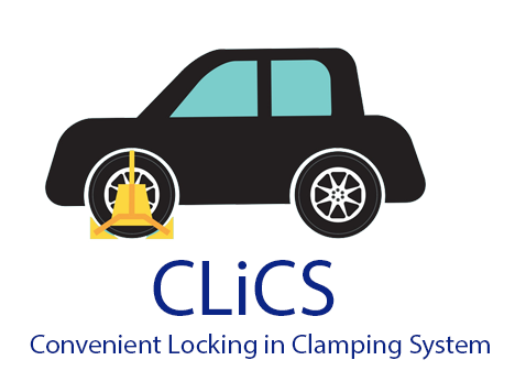
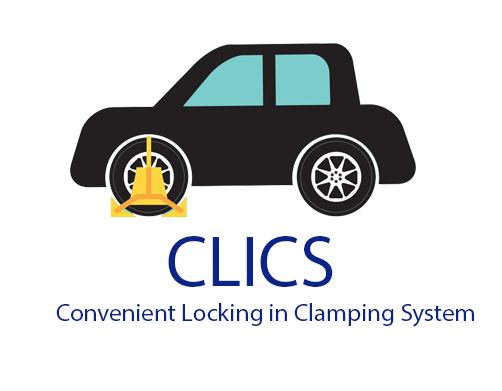
Add files via upload

Changed region(s): [[0.0598, 0.0921, 0.9562, 0.9207]]

diff --git a/index.html b/index.html
@@ -3,7 +3,7 @@
 <html>
 		<head>
 			<link rel='shortcut icon' href='favicon png.ico' type='image/x-icon'/ >
-		<title>CLiCS</title>
+		<title>CLICS</title>
 		<link rel="stylesheet" href="style.css" type="text/css">
 
 </head>
@@ -12,7 +12,7 @@
 	<!-- Header -->
 	<div class ="topnav">
 		<header id="header">
-			<h1><a style="text-decoration:none" href="/main/"> <font color = "white" > CLiCS </font></a>  </h1>
+			<h1><a style="text-decoration:none" href="/main/"> <font color = "white" > CLICS </font></a>  </h1>
 	<header>
 	</div>
 
@@ -48,8 +48,14 @@ RM:
 		</ul>
 </div>
 
-<?php
-echo "Hello, ".$Fname." ".$Lname.".<br />";
-?>
+
+
+<body>
+	Welcome <?php echo $_POST["name"]; ?><br>
+	Your email address is: <?php echo $_POST["nric"]; ?>
+
+</form>
+
+</body>
 
 </html>
